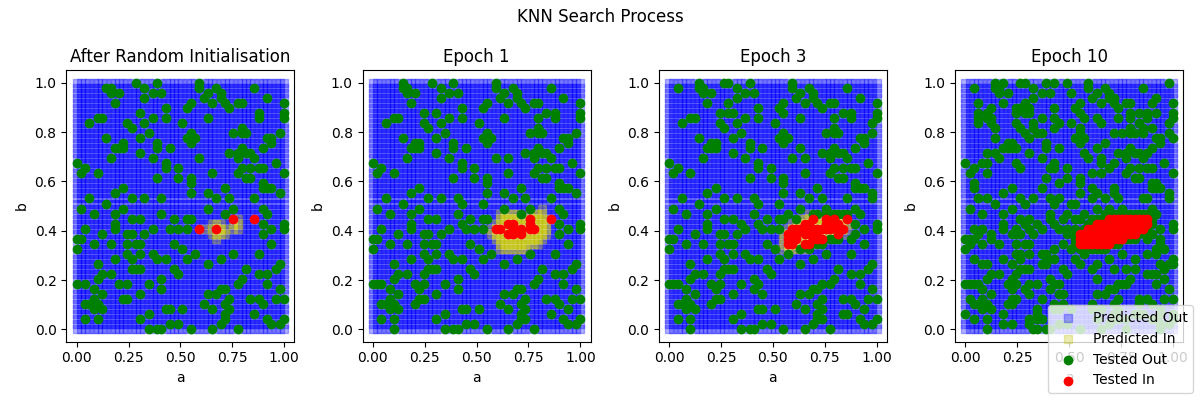
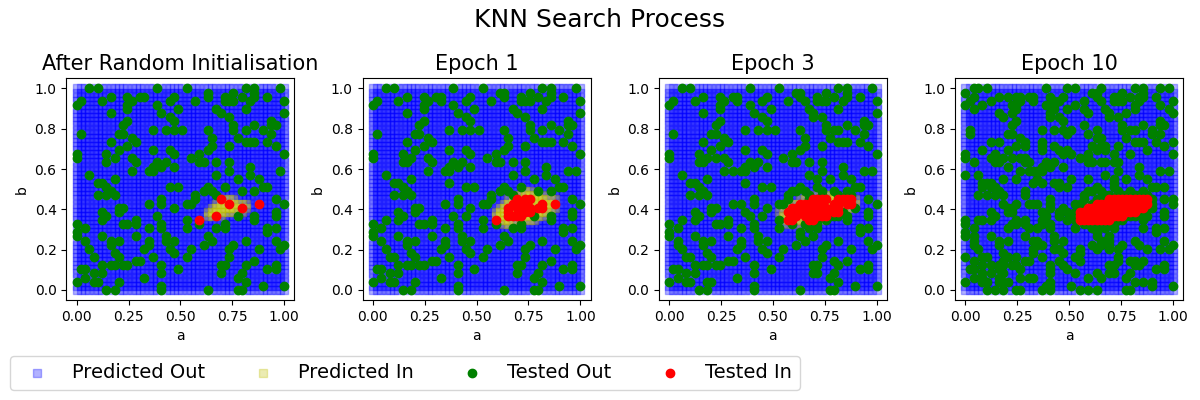
Update figure

diff --git a/search/search.py b/search/search.py
@@ -274,14 +274,15 @@ class SPSSearch:
             # axes[idx].title("Tested points after %s" % epoch_label)
             axes[idx].set_xlabel("a")
             axes[idx].set_ylabel("b")
-            axes[idx].set_title(epoch_label)
+            axes[idx].set_title(epoch_label, fontsize=15)
 
         # Shared Legend
         handles, labels = axes[0].get_legend_handles_labels()
-        fig.legend(handles=handles, labels=labels, loc="lower right")
+        fig.legend(handles=handles, labels=labels, loc="lower left", ncols=4, fontsize=14)
         
-        fig.suptitle("KNN Search Process")
+        fig.suptitle("KNN Search Process", fontsize=18)
         fig.tight_layout()
+        fig.subplots_adjust(bottom=0.25)
 
         if is_save:
             plt.savefig("figures/knn_search.png")
